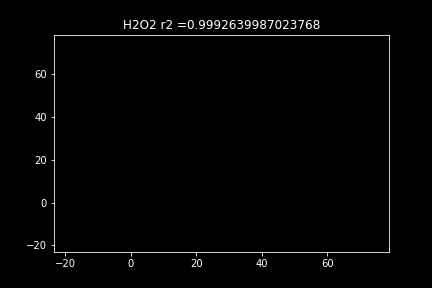
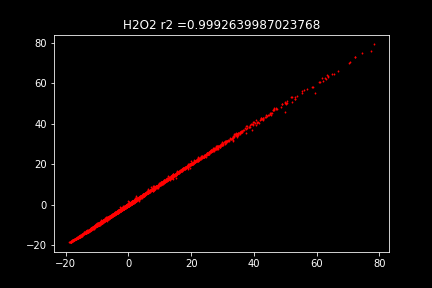
figs

diff --git a/neuralODE_train.py b/neuralODE_train.py
@@ -206,7 +206,7 @@ spl_idx=pred_df.sample(frac=0.1).index
 # sp='O'
 for sp in labels:
   x=pred_df.sample(frac=0.1)
-  plt.plot(pred_df.iloc[spl_idx][sp],test_df.iloc[spl_idx][sp],'kd',ms=1)
+  plt.plot(pred_df.iloc[spl_idx][sp],test_df.iloc[spl_idx][sp],'rd',ms=1)
   plt.title('{} r2 ={}'.format(sp,r2_score(pred_df[sp],test_df[sp])))
   plt.savefig('fig/{}_r2'.format(sp))
   plt.show()

diff --git a/draft.md b/draft.md
@@ -33,6 +33,7 @@ A multi branch bottleneck network is selected as the base network
 
 ### numerical gradient training
 r2 shows that the learning is successful.
+
 ![H2](fig/H2_r2.png)
 ![HO2](fig/HO2_r2.png)
 ![H2O](fig/H2O_r2.png)
